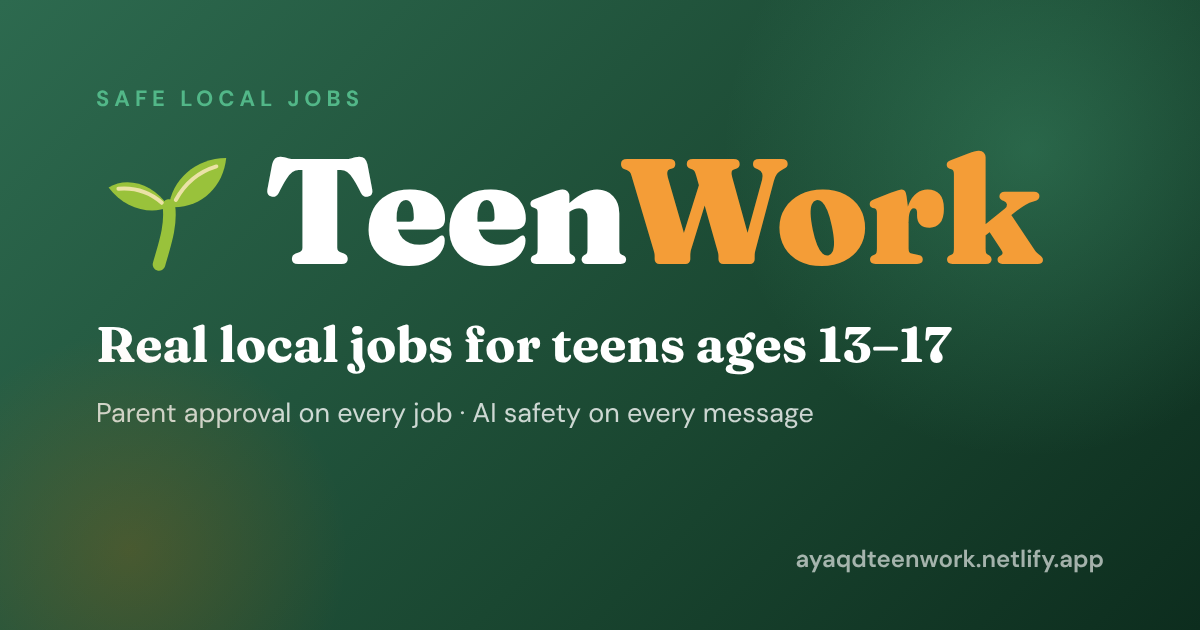
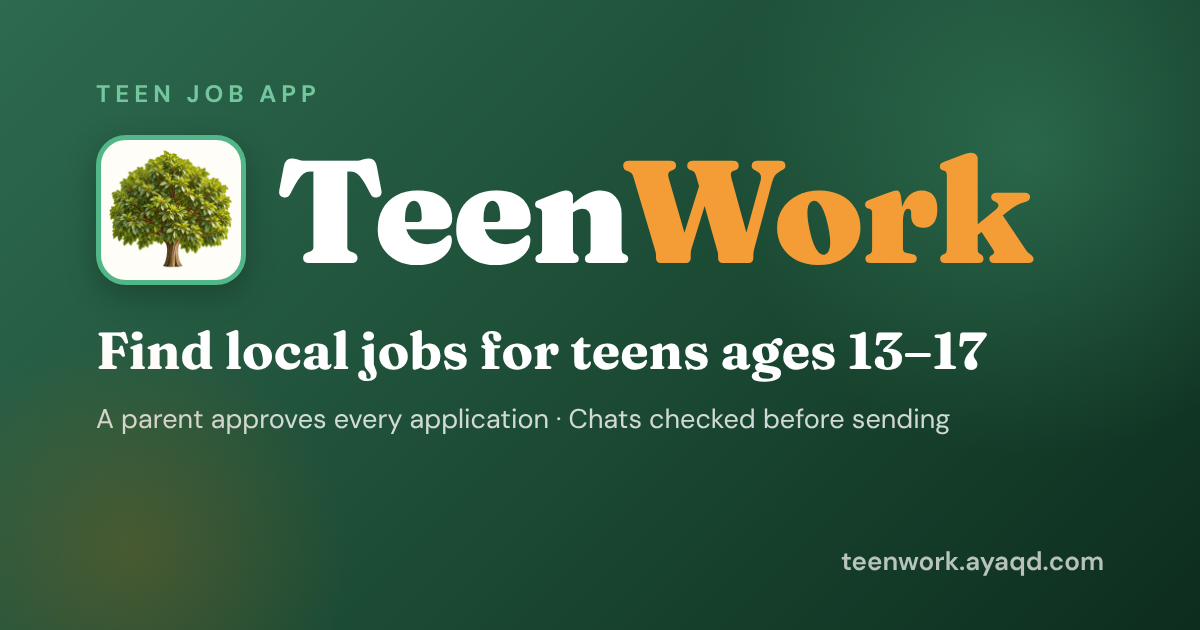
Point Google at "teen job app" and "teen job finder" instead of Vermont (#12)
Title, description, Open Graph, Twitter card, JSON-LD, H1 and hero text now lead with "teen job app" / "teen job finder app" / "TeenWork"; Vermont is only a second mention. Vermont geo tags removed, three answers added to the visible home page FAQ and the JSON-LD FAQ built from it, new share picture with teenwork.ayaqd.com, tests/search-text.cjs.

Claude-Session: https://claude.ai/code/session_01DScwzPEMdj5VmSP4DzGo1G

diff --git a/index.html b/index.html
@@ -5,7 +5,7 @@
 ║                                                                  ║
 ║  APP_NAME = "TeenWork"                                           ║
 ║  APP_URL  = "https://teenwork.ayaqd.com/"                 ║
-║  APP_TAGLINE = "Safe Local Jobs for Vermont Teens Ages 13-17"   ║
+║  APP_TAGLINE = "Teen Job App & Job Finder for Ages 13-17"         ║
 ║                                                                  ║
 ║  Run: Ctrl+H → Find "TeenWork" → Replace with your new name     ║
 ╚══════════════════════════════════════════════════════════════════╝
@@ -40,19 +40,15 @@
 <meta name="google-site-verification" content="hdtuJNYeWkt5PRF1uFvUXuT095orP6cbZ0aWw_51ptQ" />
 <meta charset="UTF-8">
 <meta name="viewport" content="width=device-width, initial-scale=1.0">
-<title>TeenWork — Safe Local Jobs for Vermont Teens Ages 13–17</title>
+<title>TeenWork — Teen Job App &amp; Job Finder for Ages 13–17</title>
 
 <!-- ══ SEO: Core ══ -->
-<meta name="description" content="TeenWork helps Vermont teens ages 13–17 find local jobs like lawn care, pet sitting and snow shoveling. A parent approves every application, and chats with employers stay in the app and are checked for safety. Free to join.">
-<meta name="keywords" content="teen job app, safe job app for teens, teen jobs, jobs for teenagers, safe teen employment, local jobs teens, teen work, lawn care teens, babysitting jobs, pet sitting jobs, teen gig work, parent approved jobs, teen job finder, jobs for 13 year olds, jobs for 14 year olds, jobs for 15 year olds, jobs for 16 year olds, jobs for 17 year olds, safe teen work app, teen employment app, neighborhood jobs for teens, teen side hustle, first job for teens, teen job platform, teen job marketplace, teen jobs USA, teen jobs nationwide, safe teen app United States, teen work platform all states, teen job app Vermont, teen job app New York, teen job app California, teen job app Texas, teen job app Florida, teen job app Massachusetts, teen job app New Hampshire, teen job app Maine, teen money app, earn money as a teen, teen gig economy, parent monitored teen jobs, teen labor law compliance app, AI teen job coach, teen resume builder, teen job application help, teen career builder, teen employment platform US, safe neighborhood gigs teens, teen lawn mowing jobs, teen dog walking jobs, teen snow shoveling jobs, teen cleaning jobs">
+<meta name="description" content="TeenWork is a free teen job finder app for ages 13–17. Browse local jobs like lawn care, pet sitting and snow shoveling. A parent approves every application, and chats stay in the app.">
+<meta name="keywords" content="teen job app, teen job apps, teen job finder app, teen job finder, TeenWork, Teen Work, jobs for teens, jobs for teenagers, first job for teens, jobs for 13 year olds, jobs for 14 year olds, jobs for 15 year olds, safe job app for teens, parent approved teen jobs, teen lawn care jobs, teen pet sitting jobs, teen dog walking jobs, teen snow shoveling jobs, babysitting jobs for teens, teen job app Vermont">
 <meta name="author" content="TeenWork">
 <meta name="robots" content="index, follow, max-snippet:-1, max-image-preview:large, max-video-preview:-1">
 <meta name="googlebot" content="index, follow">
-<meta name="geo.region" content="US-VT">
-<meta name="geo.placename" content="Vermont">
-<meta name="geo.position" content="44.0700;-72.6700">
-<meta name="ICBM" content="44.0700, -72.6700">
-<meta name="coverage" content="Vermont, United States">
+<meta name="coverage" content="United States">
 <meta name="distribution" content="United States">
 <meta name="target" content="all">
 <meta name="rating" content="general">
@@ -64,21 +60,21 @@
 <!-- ══ SEO: Open Graph (Facebook, LinkedIn) ══ -->
 <meta property="og:type" content="website">
 <meta property="og:url" content="https://teenwork.ayaqd.com/">
-<meta property="og:title" content="TeenWork — Safe Local Jobs for Vermont Teens Ages 13–17">
-<meta property="og:description" content="Local jobs for Vermont teens ages 13–17: lawn care, pet sitting, snow shoveling and more. A parent approves every application, and chats stay in the app. Free to join.">
+<meta property="og:title" content="TeenWork — Teen Job App &amp; Job Finder for Ages 13–17">
+<meta property="og:description" content="A free teen job finder app for ages 13–17: local jobs like lawn care, pet sitting and snow shoveling. A parent approves every application, and chats stay in the app.">
 <meta property="og:image" content="https://teenwork.ayaqd.com/og-image.png">
 <meta property="og:image:width" content="1200">
 <meta property="og:image:height" content="630">
-<meta property="og:image:alt" content="TeenWork — Safe Local Jobs for Vermont Teens Ages 13–17">
+<meta property="og:image:alt" content="TeenWork tree logo with the words: Teen job app. Find local jobs for teens ages 13–17. teenwork.ayaqd.com">
 <meta property="og:site_name" content="TeenWork">
 <meta property="og:locale" content="en_US">
 
 <!-- ══ SEO: Twitter Card ══ -->
 <meta name="twitter:card" content="summary_large_image">
-<meta name="twitter:title" content="TeenWork — Built by a Teen, for Vermont Teens Ages 13–17">
-<meta name="twitter:description" content="Local jobs for teens 13–17, started in Vermont. A parent approves every application, and chats with employers stay in the app. Free to join.">
+<meta name="twitter:title" content="TeenWork — Teen Job App, Built by a Teen for Teens 13–17">
+<meta name="twitter:description" content="Find local jobs for teens 13–17. A parent approves every application, and chats with employers stay in the app. Free to join. Started in Vermont.">
 <meta name="twitter:image" content="https://teenwork.ayaqd.com/og-image.png">
-<meta name="twitter:image:alt" content="TeenWork safe teen job app">
+<meta name="twitter:image:alt" content="TeenWork tree logo with the words: Teen job app. Find local jobs for teens ages 13–17. teenwork.ayaqd.com">
 <meta name="twitter:site" content="@teenworkapp">
 
 <!-- ══ SEO: Structured Data (Google Rich Results) ══ -->
@@ -91,12 +87,17 @@
       "@id": "https://teenwork.ayaqd.com/#website",
       "url": "https://teenwork.ayaqd.com/",
       "name": "TeenWork",
-      "description": "Safe local jobs for Vermont teens ages 13-17, with a parent approving every application."
+      "alternateName": [
+        "Teen Work",
+        "TeenWork App"
+      ],
+      "description": "TeenWork is a teen job app and job finder for ages 13–17, with a parent approving every application."
     },
     {
       "@type": "Organization",
       "@id": "https://teenwork.ayaqd.com/#org",
       "name": "TeenWork",
+      "alternateName": "Teen Work",
       "url": "https://teenwork.ayaqd.com/",
       "logo": {
         "@type": "ImageObject",
@@ -104,15 +105,15 @@
         "width": 512,
         "height": 512
       },
-      "description": "TeenWork is a job app for teens ages 13-17, started in Vermont. Teens find local jobs like lawn care, pet sitting and snow shoveling; a linked parent approves every application, and chats with employers stay in the app and are checked for safety.",
+      "description": "TeenWork is a teen job app and job finder for ages 13–17. Teens find local jobs like lawn care, pet sitting and snow shoveling; a linked parent approves every application, and chats with employers stay in the app and are checked for safety. TeenWork started in Vermont.",
       "foundingDate": "2026",
       "foundingLocation": {
         "@type": "Place",
         "name": "Vermont, USA"
       },
       "areaServed": {
-        "@type": "State",
-        "name": "Vermont"
+        "@type": "Country",
+        "name": "United States"
       },
       "contactPoint": {
         "@type": "ContactPoint",
@@ -126,17 +127,17 @@
       "@id": "https://teenwork.ayaqd.com/#service-lawn-care",
       "name": "Teen Lawn Care Jobs",
       "serviceType": "Lawn Care",
-      "description": "Vermont teens ages 13-17 can find paid yard work posted by local employers, like raking leaves, weeding, planting and yard cleanup. A linked parent approves every application, and jobs show up where local employers post them.",
+      "description": "Teens ages 13–17 can use the TeenWork teen job app to find paid yard work like raking leaves, weeding, planting and yard cleanup posted by local employers. A linked parent approves every application, and jobs show up where local employers post them.",
       "provider": {
         "@id": "https://teenwork.ayaqd.com/#org"
       },
       "areaServed": {
-        "@type": "State",
-        "name": "Vermont"
+        "@type": "Country",
+        "name": "United States"
       },
       "audience": {
         "@type": "Audience",
-        "audienceType": "Teenagers ages 13-17"
+        "audienceType": "Teenagers ages 13–17"
       },
       "offers": {
         "@type": "Offer",
@@ -150,17 +151,17 @@
       "@id": "https://teenwork.ayaqd.com/#service-pet-sitting",
       "name": "Teen Pet Sitting & Dog Walking Jobs",
       "serviceType": "Pet Sitting",
-      "description": "Vermont teens ages 13-17 can find pet sitting, dog walking and other pet care jobs posted by local employers. A linked parent approves every application, and jobs show up where local employers post them.",
+      "description": "Teens ages 13–17 can use the TeenWork teen job app to find pet sitting, dog walking and other pet care jobs posted by local employers. A linked parent approves every application, and jobs show up where local employers post them.",
       "provider": {
         "@id": "https://teenwork.ayaqd.com/#org"
       },
       "areaServed": {
-        "@type": "State",
-        "name": "Vermont"
+        "@type": "Country",
+        "name": "United States"
       },
       "audience": {
         "@type": "Audience",
-        "audienceType": "Teenagers ages 13-17"
+        "audienceType": "Teenagers ages 13–17"
       },
       "offers": {
         "@type": "Offer",
@@ -174,17 +175,17 @@
       "@id": "https://teenwork.ayaqd.com/#service-neighborhood-gigs",
       "name": "Teen Neighborhood Gig Jobs",
       "serviceType": "Neighborhood Gigs",
-      "description": "Vermont teens ages 13-17 can find neighborhood jobs posted by local employers, like snow shoveling, house cleaning, grocery help and errands. A linked parent approves every application, and jobs show up where local employers post them.",
+      "description": "Teens ages 13–17 can use the TeenWork teen job app to find neighborhood jobs like snow shoveling, house cleaning, grocery help and errands posted by local employers. A linked parent approves every application, and jobs show up where local employers post them.",
       "provider": {
         "@id": "https://teenwork.ayaqd.com/#org"
       },
       "areaServed": {
-        "@type": "State",
-        "name": "Vermont"
+        "@type": "Country",
+        "name": "United States"
       },
       "audience": {
         "@type": "Audience",
-        "audienceType": "Teenagers ages 13-17"
+        "audienceType": "Teenagers ages 13–17"
       },
       "offers": {
         "@type": "Offer",
@@ -197,10 +198,20 @@
       "@type": "SoftwareApplication",
       "@id": "https://teenwork.ayaqd.com/#app",
       "name": "TeenWork",
+      "alternateName": "TeenWork teen job finder app",
       "url": "https://teenwork.ayaqd.com/",
       "applicationCategory": "BusinessApplication",
       "operatingSystem": "Web",
-      "description": "TeenWork is a job app for teens ages 13-17, started in Vermont. Teens find local jobs like lawn care, pet sitting and snow shoveling; a linked parent approves every application, and chats with employers stay in the app and are checked for safety.",
+      "browserRequirements": "Runs in a web browser on phones, tablets and computers. Nothing to download.",
+      "description": "TeenWork is a teen job app and job finder for ages 13–17. Teens find local jobs like lawn care, pet sitting and snow shoveling; a linked parent approves every application, and chats with employers stay in the app and are checked for safety. TeenWork started in Vermont.",
+      "featureList": [
+        "Find local jobs for teens ages 13–17",
+        "A linked parent approves every application",
+        "Chat with employers inside the app, checked before sending",
+        "Job rules by age and state, including work permits",
+        "Log hours and earnings",
+        "Short lessons on doing a job well"
+      ],
       "offers": [
         {
           "@type": "Offer",
@@ -217,50 +228,74 @@
       "mainEntity": [
         {
           "@type": "Question",
-          "name": "What age do teens need to be to use TeenWork?",
+          "name": "What is TeenWork?",
           "acceptedAnswer": {
             "@type": "Answer",
-            "text": "TeenWork is for teens ages 13-17. When a teen applies for a job, TeenWork checks the job's minimum age, job types teens aren't allowed to do, and whether the teen's state needs a work permit."
+            "text": "TeenWork is a teen job app and job finder for ages 13–17, and it's free to join. Teens browse local jobs that employers post, like lawn care, pet sitting and snow shoveling, and a linked parent approves every application. A 13-year-old started it in Vermont."
           }
         },
         {
           "@type": "Question",
-          "name": "What kinds of jobs can teens find on TeenWork?",
+          "name": "Do I need to download the TeenWork app?",
           "acceptedAnswer": {
             "@type": "Answer",
-            "text": "Local jobs that employers near you post, like lawn care, pet sitting, dog walking, snow shoveling, house cleaning and other neighborhood jobs. A teen needs a linked parent's OK before applying, and the parent approves each application."
+            "text": "No. TeenWork is a web app, so it works in the browser on a phone, tablet or computer at teenwork.ayaqd.com. To keep it handy on a phone, use the browser's Share or menu button and choose Add to Home Screen."
           }
         },
         {
           "@type": "Question",
-          "name": "Is TeenWork safe for my teenager?",
+          "name": "Who can use TeenWork?",
           "acceptedAnswer": {
             "@type": "Answer",
-            "text": "TeenWork is built so parents stay involved: a linked parent agrees before a teen can apply and approves each application, and messages between teens and employers stay in the app and are checked by a word filter and AI before they are sent. TeenWork does not verify employers' identity or run criminal background checks, and AI checks can miss things, so meet the employer first. In an emergency, call 911."
+            "text": "Teens ages 13–17, their parents, and employers with local work. When a teen applies for a job, TeenWork checks the job's minimum age, job types teens aren't allowed to do, and whether the teen's state needs a work permit."
           }
         },
         {
           "@type": "Question",
-          "name": "How much can teens earn?",
+          "name": "Can I explore without creating an account?",
           "acceptedAnswer": {
             "@type": "Answer",
-            "text": "Each employer sets the pay and shows it on the job post. TeenWork doesn't take a cut of what teens earn."
+            "text": "Yes. Choose Teen Demo, Parent Demo or Employer Demo above. Each demo is an empty practice account, like a brand-new one, so you can try every screen. Nothing you do in a demo is saved or sent, and the demo AI can be tried 5 times a day."
           }
         },
         {
           "@type": "Question",
-          "name": "Is TeenWork available in my state?",
+          "name": "How does a parent get involved?",
           "acceptedAnswer": {
             "@type": "Answer",
-            "text": "TeenWork started in Vermont. Anyone in the US can make an account, and the app knows each state's teen work-permit rules, but jobs only show up where local employers post them."
+            "text": "The parent creates a separate account and links to the teen using the teen's code. A parent must agree before the teen applies, and each application waits for parent approval before the employer receives it."
           }
         },
         {
           "@type": "Question",
-          "name": "What is included in TeenWork Pro?",
+          "name": "Are jobs guaranteed in my town?",
           "acceptedAnswer": {
             "@type": "Answer",
-            "text": "Pro adds the AI resume builder, unlimited applications (the Free plan can apply to up to 5 jobs at a time) and more. Pro is free for everyone during early access."
+            "text": "No. TeenWork started in Vermont, and listings appear when local employers post them. Creating an account does not guarantee a nearby job or that an employer will hire you."
+          }
+        },
+        {
+          "@type": "Question",
+          "name": "Can an employer post a small neighborhood job?",
+          "acceptedAnswer": {
+            "@type": "Answer",
+            "text": "Employers can describe local work, the location, pay and requirements. Be specific about the tasks and schedule. Employers are responsible for checking that the work and hours are appropriate for the teen's age and follow applicable rules."
+          }
+        },
+        {
+          "@type": "Question",
+          "name": "Does TeenWork verify every employer?",
+          "acceptedAnswer": {
+            "@type": "Answer",
+            "text": "TeenWork does not currently verify employer identities or run criminal background checks. Parents should review the work and meet the employer with their teen before a first job. Read “How safety works” for the app's checks and their limits."
+          }
+        },
+        {
+          "@type": "Question",
+          "name": "Where do real reviews come from?",
+          "acceptedAnswer": {
+            "@type": "Answer",
+            "text": "Signed-in members can leave feedback using Rate app in their dashboard. A review appears publicly only when its author chooses to share it. Demo reviews are not used as real testimonials."
           }
         }
       ]
@@ -343,9 +378,9 @@
 
       <section class="landing-hero" id="tw48-hero">
         <div class="landing-inner" style="text-align:center;max-width:720px;margin:0 auto;">
-          <h1 id="tw48-h1">Safe local jobs for Vermont teens <span style="white-space:nowrap">ages 13–17</span></h1>
+          <h1 id="tw48-h1">The teen job app for safe local jobs, <span style="white-space:nowrap">ages 13–17</span></h1>
 
-          <p class="landing-lead" style="margin:0 auto 1.4rem;max-width:540px;font-size:1.05rem;color:var(--muted);line-height:1.6">Lawn care, pet sitting, snow shoveling and other neighborhood jobs. A parent approves every application, and chats with employers stay inside the app.</p>
+          <p class="landing-lead" style="margin:0 auto 1.4rem;max-width:540px;font-size:1.05rem;color:var(--muted);line-height:1.6">TeenWork is a free teen job finder for lawn care, pet sitting, snow shoveling and other neighborhood jobs. A parent approves every application, and chats with employers stay inside the app.</p>
 
           <!-- Auth CTA buttons -->
           <div style="display:flex;gap:10px;justify-content:center;flex-wrap:wrap;margin-bottom:1.2rem">
@@ -3830,7 +3865,7 @@
 <script id="featpack-v39-cloud-js" src="assets/js/featpack-v39-cloud-js.js"></script>
 
 <link rel="stylesheet" href="assets/css/homepage-v49.css?v=53">
-<script src="assets/js/homepage-v49.js?v=53"></script>
+<script src="assets/js/homepage-v49.js?v=54"></script>
 <link rel="stylesheet" href="assets/css/trust-usability.css?v=53">
 <link rel="stylesheet" href="assets/css/phone-fit-v51.css">
 <script id="phone-fit-v51" src="assets/js/phone-fit-v51.js"></script>

diff --git a/assets/js/homepage-v49.js b/assets/js/homepage-v49.js
@@ -118,6 +118,9 @@
    </section>
    <section class="landing-section" aria-labelledby="tw50-faq">
     <div class="landing-section-head"><div><h2 id="tw50-faq">Questions before you join</h2><p>What to expect from TeenWork.</p></div></div>
+    <details class="tw50-faq"><summary>What is TeenWork?</summary><p>TeenWork is a teen job app and job finder for ages 13–17, and it's free to join. Teens browse local jobs that employers post, like lawn care, pet sitting and snow shoveling, and a linked parent approves every application. A 13-year-old started it in Vermont.</p></details>
+    <details class="tw50-faq"><summary>Do I need to download the TeenWork app?</summary><p>No. TeenWork is a web app, so it works in the browser on a phone, tablet or computer at teenwork.ayaqd.com. To keep it handy on a phone, use the browser's Share or menu button and choose Add to Home Screen.</p></details>
+    <details class="tw50-faq"><summary>Who can use TeenWork?</summary><p>Teens ages 13–17, their parents, and employers with local work. When a teen applies for a job, TeenWork checks the job's minimum age, job types teens aren't allowed to do, and whether the teen's state needs a work permit.</p></details>
     <details class="tw50-faq"><summary>Can I explore without creating an account?</summary><p>Yes. Choose Teen Demo, Parent Demo or Employer Demo above. Each demo is an empty practice account, like a brand-new one, so you can try every screen. Nothing you do in a demo is saved or sent, and the demo AI can be tried 5 times a day.</p></details>
     <details class="tw50-faq"><summary>How does a parent get involved?</summary><p>The parent creates a separate account and links to the teen using the teen's code. A parent must agree before the teen applies, and each application waits for parent approval before the employer receives it.</p></details>
     <details class="tw50-faq"><summary>Are jobs guaranteed in my town?</summary><p>No. TeenWork started in Vermont, and listings appear when local employers post them. Creating an account does not guarantee a nearby job or that an employer will hire you.</p></details>

diff --git a/README.md b/README.md
@@ -28,6 +28,7 @@ To ship a new app version, update the relevant markup, scripts and styles, commi
 
 The web server must serve `robots.txt`, `sitemap.xml` and the images above as files. The app needs no other routes: every screen is `index.html`.
 If the site moves to another address, update the address in `robots.txt`, `sitemap.xml` and the canonical, Open Graph and structured data tags in the `<head>` of `index.html`.
+The search text leads with "teen job app", "teen job finder app" and "TeenWork"; Vermont is only a second mention. The FAQ in the structured data must match the "Questions before you join" FAQ in `assets/js/homepage-v49.js`. Run `node tests/search-text.cjs` after changing either.
 
 ## Source layout and secure AI deployment
 
